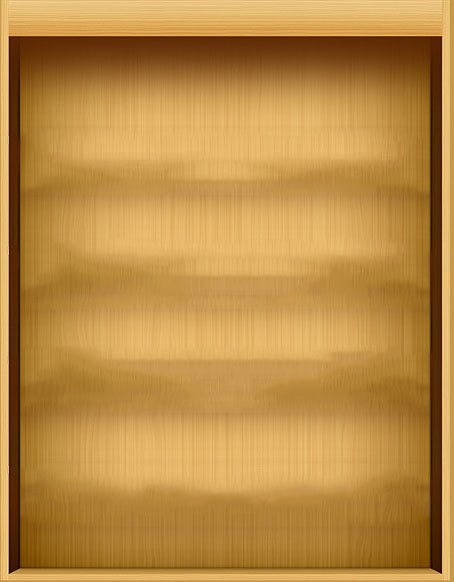
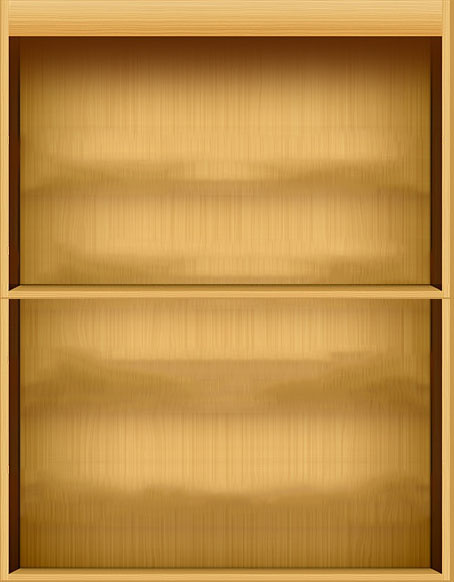
more bookshelf done

Changed region(s): [[0.0, 0.4639, 0.9868, 0.5258]]

diff --git a/app/assets/stylesheets/foundation_and_overrides.scss b/app/assets/stylesheets/foundation_and_overrides.scss
@@ -1053,13 +1053,13 @@ $row-width: 102em;
 .bookshelf {
 		background: url( /bookshelf.jpg );
 		background-size: 100% 100%;
-		height: 600px;
+		height: 560px;
 }
 
 #book_container {
 		position:absolute;
 		left: 30px;
-		top:60px;
+		top:58px;
 		-webkit-transform: rotate(90deg);
     		-moz-transform: rotate(90deg);
     		-o-transform: rotate(90deg);
@@ -1067,11 +1067,22 @@ $row-width: 102em;
     		transform: rotate(90deg);
 }
 
+#book_container_2 {
+		position:absolute;
+                left: 30px;
+                top:420px;
+                -webkit-transform: rotate(90deg);
+                -moz-transform: rotate(90deg);
+                -o-transform: rotate(90deg);
+                -ms-transform: rotate(90deg);
+                transform: rotate(90deg);
+}
+
 .book_on_shelf {
 		font-size: 10px;
 		background: url( /book_1.JPG );
 		background-size: 100% auto;
-		padding: 5px;
+		padding: 8px;
 		width: 200px;
 		height: 30px;
 		text-align: center;

diff --git a/app/controllers/home_controller.rb b/app/controllers/home_controller.rb
@@ -12,7 +12,7 @@ class HomeController < ApplicationController
 	@user_books = @user.books
 	@top_shelf_books = @user_books[0..7].take(8)
 	
-	@bottom_shelf_books = @user_books.exists?(8) ? @user_books[9..16].take(8) : [] 
+	@bottom_shelf_books = @user_books[8] != nil ? @user_books[8..15].take(8) : [] 
 
 
 #	@bottom_shelf_books = @user_books[9..16].take(8)
